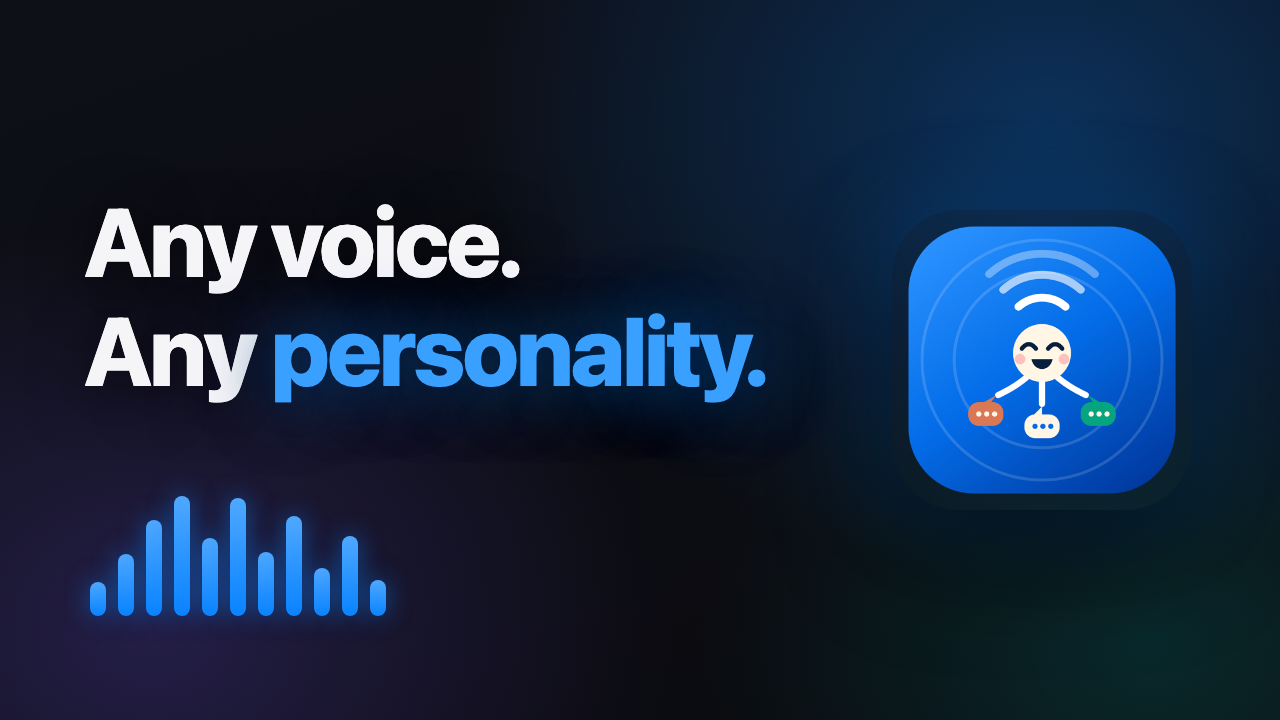
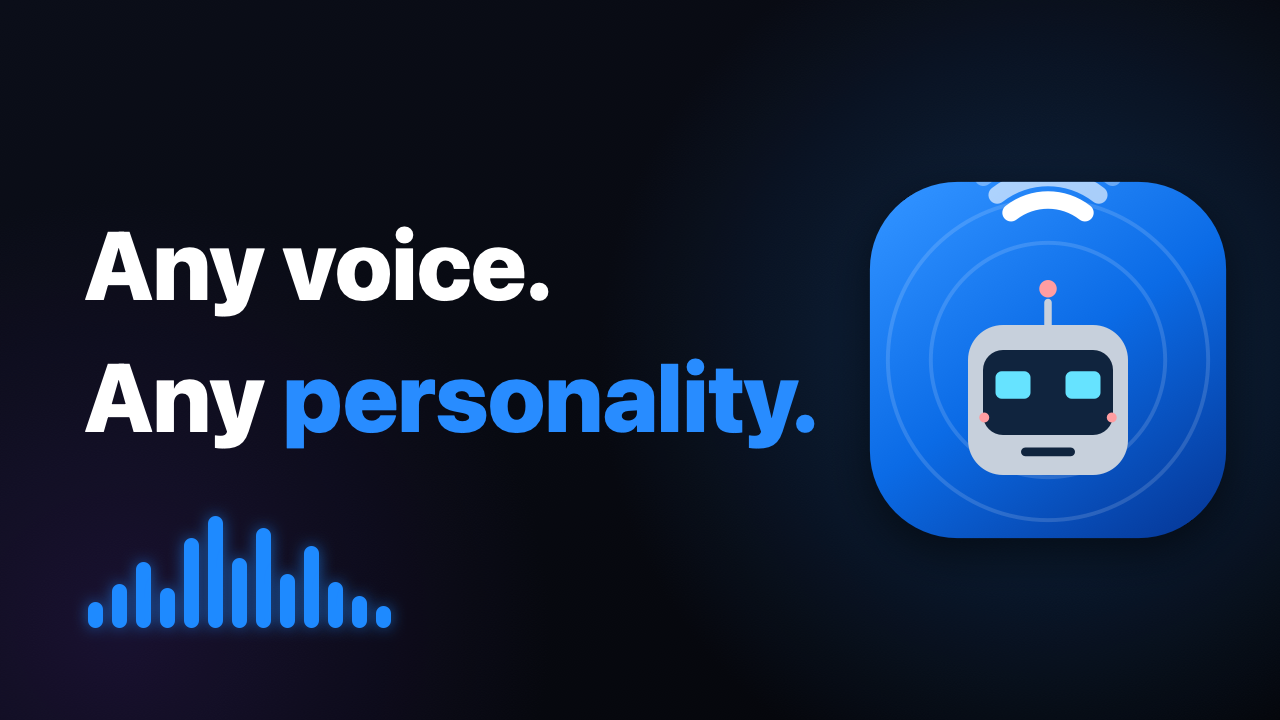
Regenerate the YouTube thumbnail and add the brand web asset generator
scripts/generate-brand-web-assets.swift renders the site favicons and the
Any voice, Any personality thumbnail from the same robot tile as the app
icon, so every public surface shows the current robot. Retires the Bubbles
mascot thumbnail.

diff --git a/scripts/generate-brand-web-assets.swift b/scripts/generate-brand-web-assets.swift
@@ -1,0 +1,211 @@
+#!/usr/bin/env swift
+
+import AppKit
+import Foundation
+
+// Regenerates the public web/marketing brand images from the current robot
+// artwork so they stay in lockstep with the app icon (INF-291 rebrand):
+//   - favicon.png (128) and apple-touch-icon.png (180) for attache.fm
+//   - the 1280x720 YouTube thumbnail ("Any voice. Any personality.")
+//
+// The robot tile below mirrors AttacheAppIcon.draw / generate-app-icon.swift's
+// drawIcon so every surface renders the same Attaché head. Edit those together.
+//
+// usage: generate-brand-web-assets.swift <favicon.png> <apple-touch-icon.png> <thumb.png>
+
+guard CommandLine.arguments.count == 4 else {
+    fputs("usage: generate-brand-web-assets.swift <favicon.png> <apple-touch-icon.png> <thumb.png>\n", stderr)
+    exit(2)
+}
+let faviconURL = URL(fileURLWithPath: CommandLine.arguments[1])
+let appleTouchURL = URL(fileURLWithPath: CommandLine.arguments[2])
+let thumbURL = URL(fileURLWithPath: CommandLine.arguments[3])
+
+// The robot app-icon tile, filling a `side` x `side` square. Verbatim from
+// scripts/generate-app-icon.swift (drawIcon) so the geometry matches exactly.
+func drawIcon(side: CGFloat) {
+    let s = side / 512
+    func rect(_ x: CGFloat, _ y: CGFloat, _ w: CGFloat, _ h: CGFloat) -> NSRect {
+        NSRect(x: x * s, y: y * s, width: w * s, height: h * s)
+    }
+    let k: CGFloat = 3.2
+    let ox: CGFloat = 256 - 120 * k
+    let oy: CGFloat = 256 - 96 * k
+    func m(_ x: CGFloat, _ y: CGFloat) -> NSPoint {
+        NSPoint(x: (ox + x * k) * s, y: (512 - oy - y * k) * s)
+    }
+    func mrect(_ x: CGFloat, _ y: CGFloat, _ w: CGFloat, _ h: CGFloat) -> NSRect {
+        NSRect(x: (ox + x * k) * s, y: (512 - oy - (y + h) * k) * s, width: w * k * s, height: h * k * s)
+    }
+
+    let tileTop = NSColor(srgbRed: 0.180, green: 0.565, blue: 1.000, alpha: 1)
+    let tileMid = NSColor(srgbRed: 0.043, green: 0.420, blue: 0.902, alpha: 1)
+    let tileDeep = NSColor(srgbRed: 0.024, green: 0.235, blue: 0.620, alpha: 1)
+    let ringColor = NSColor(srgbRed: 1.0, green: 1.0, blue: 1.0, alpha: 0.14)
+    let white = NSColor(srgbRed: 1.0, green: 1.0, blue: 1.0, alpha: 1)
+    let steel = NSColor(srgbRed: 0.780, green: 0.816, blue: 0.863, alpha: 1)
+    let screenNavy = NSColor(srgbRed: 0.063, green: 0.141, blue: 0.243, alpha: 1)
+    let led = NSColor(srgbRed: 0.400, green: 0.890, blue: 1.000, alpha: 1)
+    let coral = NSColor(srgbRed: 1.0, green: 0.616, blue: 0.631, alpha: 1)
+
+    let tile = NSBezierPath(roundedRect: rect(28, 28, 456, 456), xRadius: 112 * s, yRadius: 112 * s)
+    NSGradient(colors: [tileTop, tileMid, tileDeep])?.draw(in: tile, angle: 305)
+
+    NSGraphicsContext.saveGraphicsState()
+    tile.addClip()
+
+    ringColor.setStroke()
+    for radius in [150.0, 205.0] as [CGFloat] {
+        let circle = NSBezierPath(ovalIn: rect(256 - radius, 256 - radius, radius * 2, radius * 2))
+        circle.lineWidth = 5 * s
+        circle.stroke()
+    }
+
+    let arcSpecs: [(radius: CGFloat, alpha: CGFloat)] = [(24, 1.0), (33, 0.62), (42, 0.34)]
+    for spec in arcSpecs {
+        white.withAlphaComponent(spec.alpha).setStroke()
+        let arc = NSBezierPath()
+        arc.appendArc(withCenter: m(120, 56), radius: spec.radius * k * s, startAngle: 52, endAngle: 128)
+        arc.lineWidth = 7 * k * s
+        arc.lineCapStyle = .round
+        arc.stroke()
+    }
+
+    steel.setStroke()
+    let stem = NSBezierPath()
+    stem.lineWidth = 3 * k * s
+    stem.lineCapStyle = .round
+    stem.move(to: m(120, 82))
+    stem.line(to: m(120, 73))
+    stem.stroke()
+    coral.setFill()
+    NSBezierPath(ovalIn: mrect(116.5, 64, 7, 7)).fill()
+
+    steel.setFill()
+    NSBezierPath(roundedRect: mrect(88, 82, 64, 60), xRadius: 14 * k * s, yRadius: 14 * k * s).fill()
+    screenNavy.setFill()
+    NSBezierPath(roundedRect: mrect(94, 92, 52, 34), xRadius: 8 * k * s, yRadius: 8 * k * s).fill()
+
+    led.setFill()
+    NSBezierPath(roundedRect: mrect(99, 100.5, 14, 11), xRadius: 2.5 * k * s, yRadius: 2.5 * k * s).fill()
+    NSBezierPath(roundedRect: mrect(127, 100.5, 14, 11), xRadius: 2.5 * k * s, yRadius: 2.5 * k * s).fill()
+
+    coral.setFill()
+    NSBezierPath(ovalIn: mrect(92.5, 117, 4, 4)).fill()
+    NSBezierPath(ovalIn: mrect(143.5, 117, 4, 4)).fill()
+
+    screenNavy.setFill()
+    NSBezierPath(roundedRect: mrect(109.2, 131, 21.6, 3.5), xRadius: 1.75 * k * s, yRadius: 1.75 * k * s).fill()
+
+    NSGraphicsContext.restoreGraphicsState()
+}
+
+func makeBitmap(width: Int, height: Int) -> NSBitmapImageRep {
+    NSBitmapImageRep(
+        bitmapDataPlanes: nil, pixelsWide: width, pixelsHigh: height,
+        bitsPerSample: 8, samplesPerPixel: 4, hasAlpha: true, isPlanar: false,
+        colorSpaceName: .deviceRGB, bytesPerRow: 0, bitsPerPixel: 0
+    )!
+}
+
+func render(_ rep: NSBitmapImageRep, _ body: () -> Void) {
+    NSGraphicsContext.saveGraphicsState()
+    NSGraphicsContext.current = NSGraphicsContext(bitmapImageRep: rep)
+    NSColor.clear.setFill()
+    NSRect(x: 0, y: 0, width: rep.pixelsWide, height: rep.pixelsHigh).fill()
+    body()
+    NSGraphicsContext.restoreGraphicsState()
+}
+
+func writePNG(_ rep: NSBitmapImageRep, to url: URL) throws {
+    try FileManager.default.createDirectory(at: url.deletingLastPathComponent(), withIntermediateDirectories: true)
+    try rep.representation(using: .png, properties: [:])!.write(to: url)
+}
+
+// Web icons: the robot tile alone.
+for (px, url) in [(128, faviconURL), (180, appleTouchURL)] {
+    let rep = makeBitmap(width: px, height: px)
+    render(rep) { drawIcon(side: CGFloat(px)) }
+    try writePNG(rep, to: url)
+    print(url.path)
+}
+
+// The robot tile rendered to an NSImage for compositing onto the thumbnail.
+func tileImage(side: Int) -> NSImage {
+    let rep = makeBitmap(width: side, height: side)
+    render(rep) { drawIcon(side: CGFloat(side)) }
+    let image = NSImage(size: NSSize(width: side, height: side))
+    image.addRepresentation(rep)
+    return image
+}
+
+// YouTube thumbnail: dark aurora ground, headline, waveform, robot tile.
+let W = 1280, H = 720
+let thumb = makeBitmap(width: W, height: H)
+render(thumb) {
+    let bgTop = NSColor(srgbRed: 0.043, green: 0.055, blue: 0.098, alpha: 1)
+    let bgBottom = NSColor(srgbRed: 0.016, green: 0.020, blue: 0.035, alpha: 1)
+    let blue = NSColor(srgbRed: 0.157, green: 0.549, blue: 1.0, alpha: 1)
+    let purple = NSColor(srgbRed: 0.353, green: 0.180, blue: 0.651, alpha: 1)
+    let waveBlue = NSColor(srgbRed: 0.118, green: 0.541, blue: 1.0, alpha: 1)
+
+    NSGradient(colors: [bgTop, bgBottom])?.draw(in: NSRect(x: 0, y: 0, width: W, height: H), angle: -55)
+
+    // Aurora washes: cool blue behind the tile, faint violet lower-left.
+    let tileCenter = NSPoint(x: 1048, y: 360)
+    NSGradient(colors: [blue.withAlphaComponent(0.24), blue.withAlphaComponent(0)])?
+        .draw(fromCenter: tileCenter, radius: 0, toCenter: tileCenter, radius: 450,
+              options: .drawsBeforeStartingLocation)
+    let violetCenter = NSPoint(x: 120, y: 90)
+    NSGradient(colors: [purple.withAlphaComponent(0.20), purple.withAlphaComponent(0)])?
+        .draw(fromCenter: violetCenter, radius: 0, toCenter: violetCenter, radius: 430,
+              options: .drawsBeforeStartingLocation)
+
+    // Robot tile, right of center, with a soft drop shadow for depth.
+    let tileSide = 400
+    let tileRect = NSRect(x: 848, y: 160, width: tileSide, height: tileSide)
+    NSGraphicsContext.saveGraphicsState()
+    let shadow = NSShadow()
+    shadow.shadowColor = NSColor.black.withAlphaComponent(0.55)
+    shadow.shadowBlurRadius = 46
+    shadow.shadowOffset = NSSize(width: 0, height: -14)
+    shadow.set()
+    tileImage(side: tileSide).draw(in: tileRect, from: .zero, operation: .sourceOver, fraction: 1)
+    NSGraphicsContext.restoreGraphicsState()
+
+    // Waveform, lower-left, bars growing from a common baseline.
+    let heights: [CGFloat] = [26, 44, 66, 40, 90, 112, 70, 100, 54, 82, 46, 32, 22]
+    let barW: CGFloat = 15, gap: CGFloat = 9, baseX: CGFloat = 88, baseY: CGFloat = 92
+    NSGraphicsContext.saveGraphicsState()
+    let glow = NSShadow()
+    glow.shadowColor = waveBlue.withAlphaComponent(0.6)
+    glow.shadowBlurRadius = 16
+    glow.shadowOffset = .zero
+    glow.set()
+    waveBlue.setFill()
+    for (i, h) in heights.enumerated() {
+        let x = baseX + CGFloat(i) * (barW + gap)
+        NSBezierPath(roundedRect: NSRect(x: x, y: baseY, width: barW, height: h),
+                     xRadius: barW / 2, yRadius: barW / 2).fill()
+    }
+    NSGraphicsContext.restoreGraphicsState()
+
+    // Headline: "Any voice." / "Any personality." with the accent word in blue.
+    // Sized so the second line clears the tile's left edge (x=848).
+    let titleFont = NSFont.systemFont(ofSize: 96, weight: .heavy)
+    let white = NSColor.white
+    let leftX: CGFloat = 84
+    let line1Y: CGFloat = 400
+    let line2Y: CGFloat = 268
+
+    ("Any voice." as NSString).draw(at: NSPoint(x: leftX, y: line1Y),
+        withAttributes: [.font: titleFont, .foregroundColor: white])
+
+    let anyAttrs: [NSAttributedString.Key: Any] = [.font: titleFont, .foregroundColor: white]
+    ("Any " as NSString).draw(at: NSPoint(x: leftX, y: line2Y), withAttributes: anyAttrs)
+    let anyWidth = ("Any " as NSString).size(withAttributes: anyAttrs).width
+    ("personality." as NSString).draw(at: NSPoint(x: leftX + anyWidth, y: line2Y),
+        withAttributes: [.font: titleFont, .foregroundColor: blue])
+}
+try writePNG(thumb, to: thumbURL)
+print(thumbURL.path)